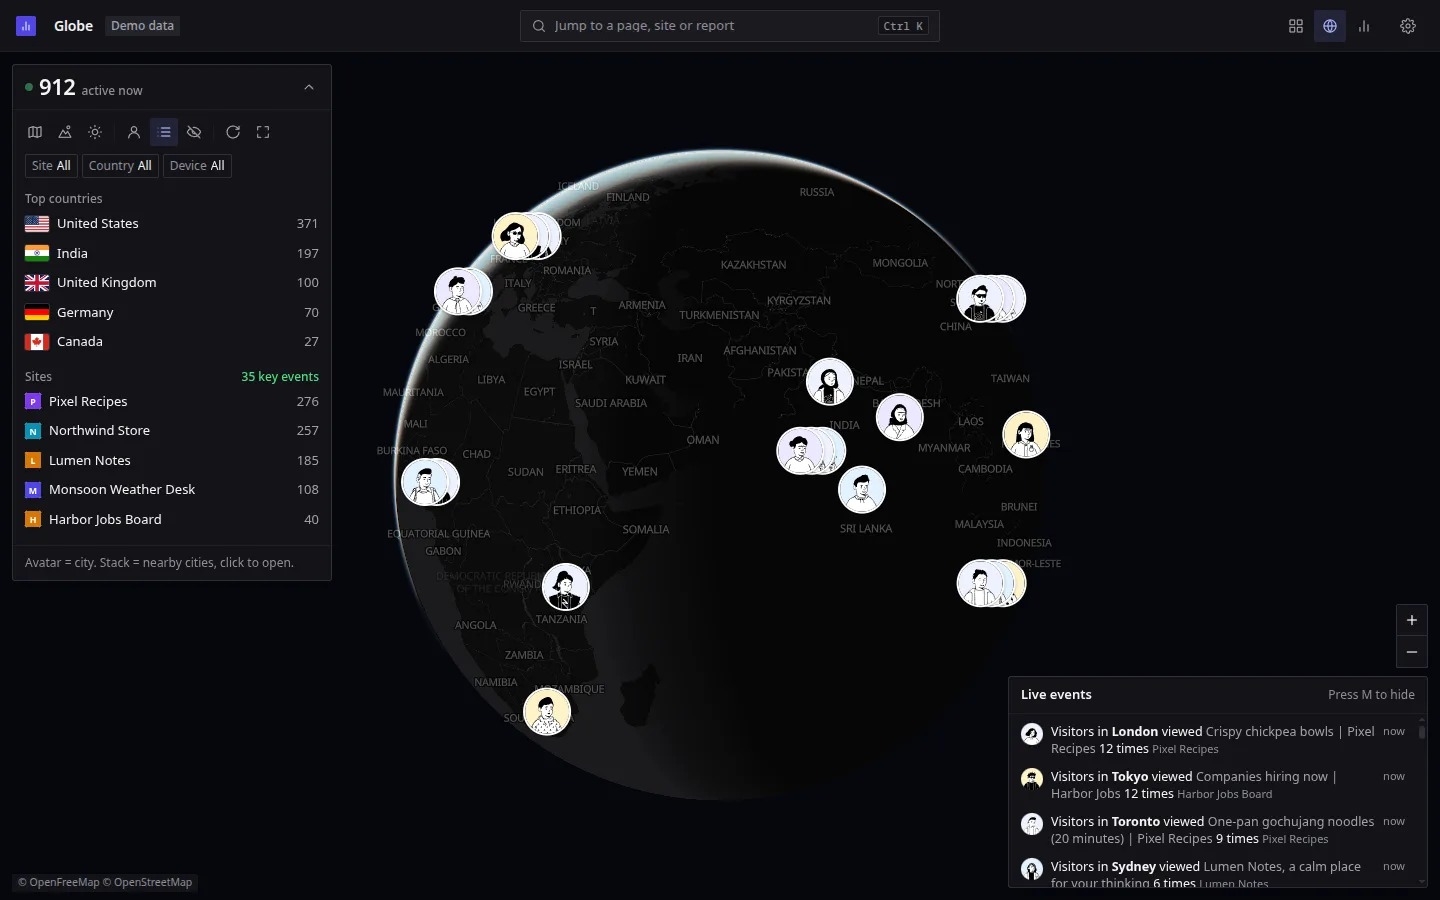
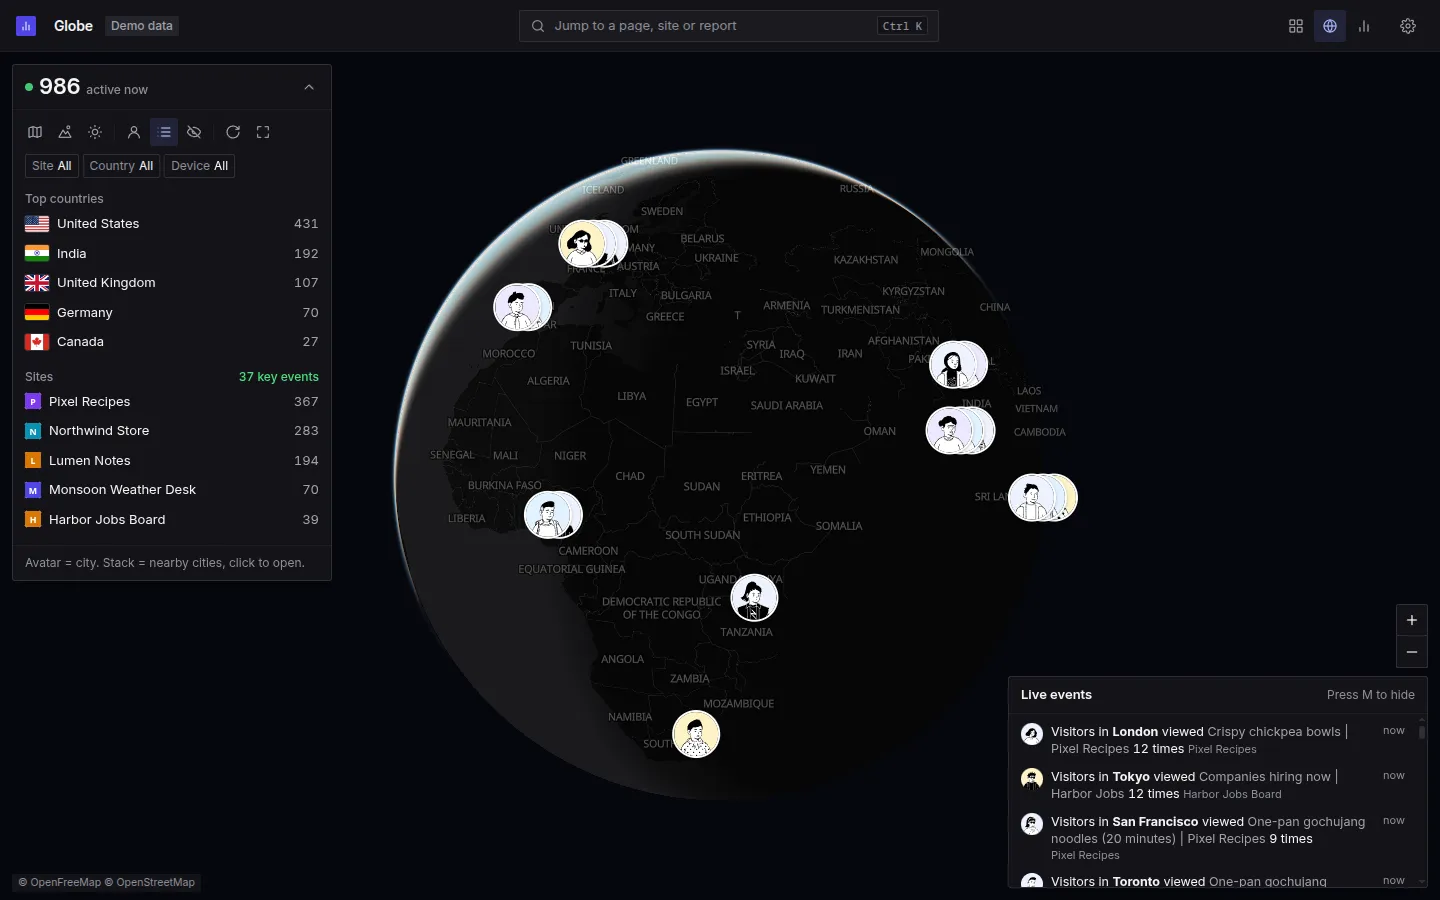
New demo screenshots and OG image, drop leftover quiztest meta

diff --git a/README.md b/README.md
@@ -2,7 +2,7 @@
 
 Real-time Google Analytics 4 (GA4) dashboard with a live globe, traffic spike detection, visitor insights, and a Model Context Protocol (MCP) server for AI assistants.
 
-![GA4 Dashboard globe: live visitors as avatars, a city card and the live event feed](docs/screenshots/globe.webp)
+![GA4 Dashboard globe: live visitors as avatars, top countries and sites, and the live event feed](docs/screenshots/globe.webp)
 
 <details>
 <summary>More screenshots</summary>
